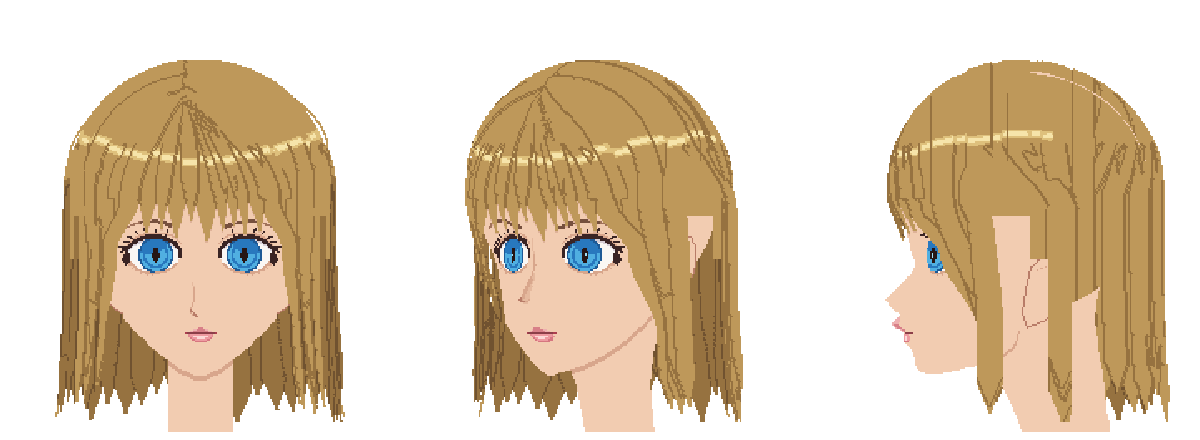
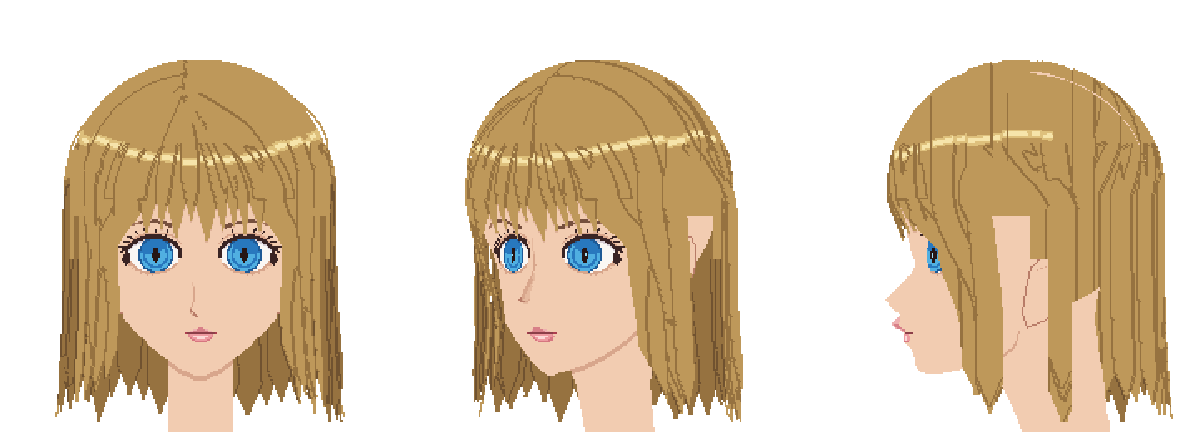
臉模 v2：長直髮鬢髮加寬、垂下對準臉的輪廓（蓋住臉頰邊）
Claude-Session: https://claude.ai/code/session_01FDQv7ddy7JMjePn6AqJ3VJ

diff --git a/web/droom/face_mold/v2/hair_long.py b/web/droom/face_mold/v2/hair_long.py
@@ -69,10 +69,10 @@ def bang(xt,yt,hw0,layer,i):
     u=np.asarray(l,float)/L
     return hw0*(.3+.7*sm(u/.45))*np.clip((1-u)/.3,.06,1)
   return Strand('bang',('b',i),layer,f,L,hw)
-def lock(s,xs,hw0,layer,tip,rnd,i):
+def lock(s,xs,hw0,layer,tip,rnd,i,dx=12):
   # 鬢髮：從分線前段斜斜下來，到眉尾高度在眉尾外面（蓋住太陽穴）→ 沿著臉的輪廓往外、往後滑到眼睛後面 → 垂下（耳朵前面），髮尾往外一點
   P=part_pt(PHF-.12-.1*i,RO+.8*layer);y0=P[1]
-  y1=CY+4;y2=CY+34;x2=xs+s*12
+  y1=CY+4;y2=CY+34;x2=xs+s*dx
   L1=math.hypot(xs-XP,y1-y0)*1.15;L2=math.hypot(x2-xs,y2-y1)*1.1;L=L1+L2+(tip-y2);fl=rnd.uniform(3,6)
   rr=R+4+.8*layer
   def f(l):
@@ -82,8 +82,8 @@ def lock(s,xs,hw0,layer,tip,rnd,i):
     r=shell_r(y,layer);z=np.sqrt(np.maximum(0,np.where(l<=L1,r*r,rr*rr)-x*x-(y-CY)**2))
     yh=y2+np.maximum(0,l-L1-L2);hang=l>L1+L2;g=sm((yh-y2)/50)
     zh2=math.sqrt(max(0,rr*rr-x2*x2-(y2-CY)**2))
-    xh=x2+s*(3*g+fl*np.clip((yh-150)/(tip-150),0,1)**2)
-    zh=zh2+(18-zh2)*g                                    # 往下慢慢退到耳朵前面
+    xh=x2+s*(-4*g+fl*np.clip((yh-150)/(tip-150),0,1)**2)
+    zh=zh2+(26-zh2)*g                                    # 往下慢慢退到耳朵前面
     x=np.where(hang,xh,x);y=np.where(hang,yh,y);z=np.where(hang,zh,z)
     return x,y,push_out(x,y,z,layer)
   def hw(l):
@@ -124,7 +124,8 @@ def build(seed=7):
       S.append(curtain(s,z,w/2+1,k%2,tip,rnd));z-=w*.8;k+=1
   # 鬢髮：每邊兩束
   for s in(-1,1):
-    for i,xs in enumerate((42,49)):S.append(lock(s,s*xs,rnd.uniform(6,7.5),1-i%2,rnd.uniform(220,244),rnd,i))
+    # 使用者 2026-11-19：鬢髮太細、蓋不住臉 → 加寬（半寬 10），垂下來對準臉的輪廓，往下蓋住臉頰邊
+    for i,(xs,dx,hw) in enumerate(((42,14,10.5),(49,13,9.5))):S.append(lock(s,s*xs,hw,1-i%2,rnd.uniform(220,244),rnd,i,dx))
   # 後腦
   th=math.radians(108);i=0
   while th<math.radians(252):
